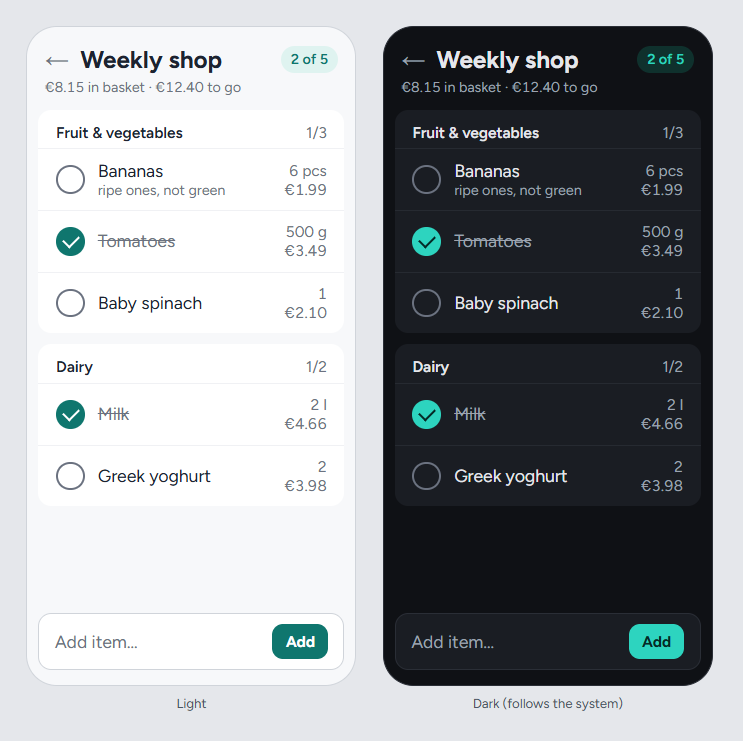
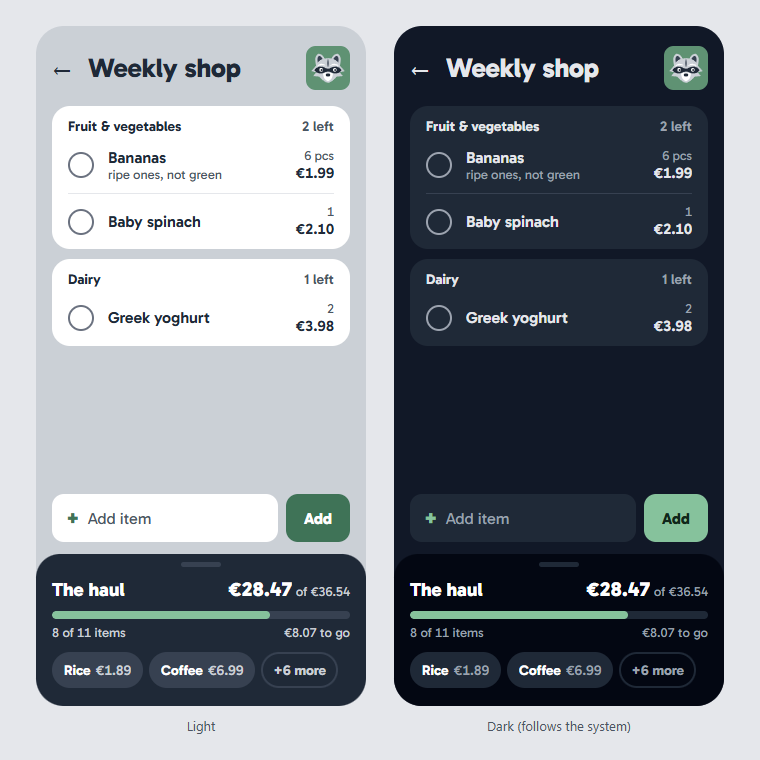
docs: draw the Ring tail mockups
Claude-Session: https://claude.ai/code/session_018Wkocm8c8g9YW3YidoVXvN

diff --git a/docs/superpowers/plans/2026-10-07-ring-tail-redesign.md b/docs/superpowers/plans/2026-10-07-ring-tail-redesign.md
@@ -181,11 +181,11 @@ If `pnpm format:check` is not available in the worktree because `node_modules` i
 
 The mockups are pictures, not code: HTML pages styled with the spec's tokens, rendered to PNG. The brainstorm's mockups (in the main checkout's `.superpowers/brainstorm/597300-1791393805/content/`, readable, never written) are the starting point for markup: `progress-in-haul.html` (list, haul, drawer), `desktop.html` (sidebar) and `dark-mode.html` (variables per scheme). Read them; write new files only under `$CLAUDE_JOB_DIR/tmp/mockups/`.
 
-- [ ] **Step 1: Change the raccoon's tile**
+- [x] **Step 1: Change the raccoon's tile**
 
 In `raccoon.svg`, line 3: `fill="#0f766e"` becomes `fill="#5F9273"`. Nothing else changes.
 
-- [ ] **Step 2: Write the four pages**
+- [x] **Step 2: Write the four pages**
 
 Each page is a full HTML document with `<link href="https://fonts.googleapis.com/css2?family=Gabarito:wght@400..800&display=swap" rel="stylesheet">`, a body background of `#E5E7EB` (like the current images), the raccoon inlined from the new `raccoon.svg`, and small captions in `system-ui` 13 px `#4B5563` under each frame, like the current images. Use the colors of [Global Constraints](#global-constraints) through CSS custom properties named after the roles (`--background`, `--card`, `--haul`, …), one set for light and one for dark, so the pictures follow the spec's table exactly. Phones are 330 × 680 px frames with 28 px corners.
 
@@ -194,7 +194,7 @@ Each page is a full HTML document with `<link href="https://fonts.googleapis.com
 3. **`navigation.html`, 1250 × 745 px**, the same layout as the current `navigation.png`: a phone with "☰ Lists", three list cards ("Weekly shop", "8 of 11 · €8.07 to go"; "Hardware store", "0 of 5"; "Birthday party", "2 of 12") and a full-width sage "+ New list" button pinned at the bottom, captioned "Phone: ☰ opens the menu as a drawer"; a 1024-wide desktop with the sidebar (raccoon 32 px and "szop" wordmark, "Lists" active on `sage-100` with `sage-700` text, "Templates", "Archive", "SETUP", "Catalog", "Categories", "Units", "Settings") next to the same three cards and a "+ New list" button at the top right, captioned "Desktop (from 1024 px): the menu is a permanent sidebar".
 4. **`brand.html`, 560 × 250 px**, the same layout as the current `brand.png`: the raccoon at 128, 32 and 16 px; a browser tab "Weekly shop – Szop" with the 16 px raccoon; the mark with the wordmark "szop" (Gabarito 700, 30 px) on a white header (`sage-700` text) and on a `gray-900` header (`sage-300` text).
 
-- [ ] **Step 3: Render them**
+- [x] **Step 3: Render them**
 
 Serve the folder and render each page with Windows Chrome in headless mode (the WSL2 setup reaches `localhost` from Windows):
 
@@ -214,15 +214,15 @@ kill $SERVER
 
 Expected: four PNGs of the given sizes (`file docs/architecture/visual-design/*.png`).
 
-- [ ] **Step 4: Check the font**
+- [x] **Step 4: Check the font**
 
 Open each PNG (the Read tool shows images) and check that every text is Gabarito (its "€" and "&" have the shapes of the brainstorm mockups, not the system font's). Then render one extra line, "Żółty ser · Łosoś · Gęś", in weights 400, 600, 700 and 800 on a scratch page, and check that every Polish letter is Gabarito, not a fallback. Note the result for the PR description.
 
-- [ ] **Step 5: Check the dark mockup reads**
+- [x] **Step 5: Check the dark mockup reads**
 
 Look at the dark phone in `list-screen.png`: the cards (`gray-800`) and the haul (`gray-950`) must read as separate from the page (`gray-900`). If they do not, change the dark `background` to `#18202D` (halfway between `gray-900` and `gray-800`), re-render, and record it: the value goes into Task 3's color table and a sentence into ADR 0022's decision 9 ("Dark mode's page is `#18202D`, not `gray-900`, so the cards and the haul stand apart from it"), amended in this task's commit.
 
-- [ ] **Step 6: Commit**
+- [x] **Step 6: Commit**
 
 ```bash
 git add docs/architecture/visual-design/ docs/superpowers/plans/2026-10-07-ring-tail-redesign.md
